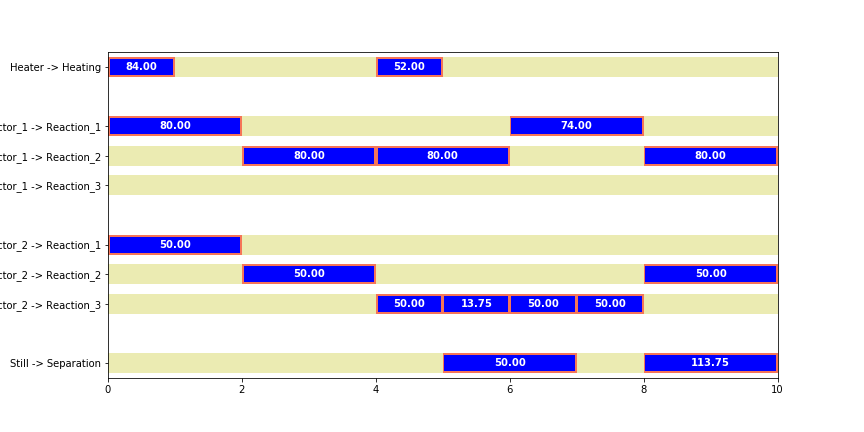
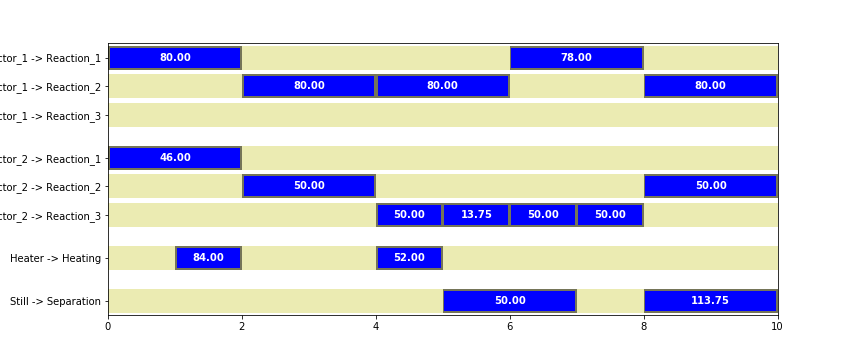
improvements to gantt plotting

diff --git a/STN/kondili.py b/STN/kondili.py
@@ -1,3 +1,11 @@
+#!/usr/bin/env python3
+# -*- coding: utf-8 -*-
+"""
+Created on Mon Oct  9 08:37:40 2017
+
+@author: jeff
+"""
+
 import sys
 sys.path.append('../STN')
 from STN import STN
@@ -17,23 +25,23 @@ stn.state('Product_1', price = 10)
 stn.state('Product_2', price = 10)
 
 # state to task arcs
-stn.STarc('FeedA',   'Heating')
-stn.STarc('FeedB',   'Reaction_1', rho = 0.5)
-stn.STarc('FeedC',   'Reaction_1', rho = 0.5)
-stn.STarc('FeedC',   'Reaction_3', rho = 0.2)
-stn.STarc('HotA',    'Reaction_2', rho = 0.4)
-stn.STarc('IntAB',   'Reaction_3', rho = 0.8)
-stn.STarc('IntBC',   'Reaction_2', rho = 0.6)
-stn.STarc('ImpureE', 'Separation')
+stn.stArc('FeedA',   'Heating')
+stn.stArc('FeedB',   'Reaction_1', rho = 0.5)
+stn.stArc('FeedC',   'Reaction_1', rho = 0.5)
+stn.stArc('FeedC',   'Reaction_3', rho = 0.2)
+stn.stArc('HotA',    'Reaction_2', rho = 0.4)
+stn.stArc('IntAB',   'Reaction_3', rho = 0.8)
+stn.stArc('IntBC',   'Reaction_2', rho = 0.6)
+stn.stArc('ImpureE', 'Separation')
 
 # task to state arcs
-stn.TSarc('Heating',    'HotA',      rho = 1.0, dur = 1)
-stn.TSarc('Reaction_2', 'IntAB',     rho = 0.6, dur = 2)
-stn.TSarc('Reaction_2', 'Product_1', rho = 0.4, dur = 2)
-stn.TSarc('Reaction_1', 'IntBC',     dur = 2)
-stn.TSarc('Reaction_3', 'ImpureE',   dur = 1)
-stn.TSarc('Separation', 'IntAB',     rho = 0.1, dur = 2)
-stn.TSarc('Separation', 'Product_2', rho = 0.9, dur = 1)
+stn.tsArc('Heating',    'HotA',      rho = 1.0, dur = 1)
+stn.tsArc('Reaction_2', 'IntAB',     rho = 0.6, dur = 2)
+stn.tsArc('Reaction_2', 'Product_1', rho = 0.4, dur = 2)
+stn.tsArc('Reaction_1', 'IntBC',     dur = 2)
+stn.tsArc('Reaction_3', 'ImpureE',   dur = 1)
+stn.tsArc('Separation', 'IntAB',     rho = 0.1, dur = 2)
+stn.tsArc('Separation', 'Product_2', rho = 0.9, dur = 1)
 
 # unit-task data
 stn.unit('Heater',    'Heating',    Bmin = 0, Bmax = 100)
@@ -46,6 +54,6 @@ stn.unit('Reactor_2', 'Reaction_3', Bmin = 0, Bmax =  50)
 stn.unit('Still',     'Separation', Bmin = 0, Bmax = 200)
 
 H = 10
-stn.buildmodel(range(0,H+1))
+stn.build(range(0,H+1))
 stn.solve('glpk')
 stn.gantt()

diff --git a/STN/STN.py b/STN/STN.py
@@ -222,26 +222,45 @@ class STN(object):
         H = self.H
         I = self.I
         p = self.p
-        plt.figure(figsize=(12,6))
 
         gap = H/400
         idx = 1
         lbls = []
         ticks = []
-        for j in sorted(self.units):
-            idx -= 1
+        
+        
+        # create a list of units sorted by time of first assignment
+        jstart = {j:H+1 for j in self.units}
+        for j in self.units:
+            for i in I[j]:
+                for t in self.TIME:
+                    if self.model.W[i,j,t]() > 0:
+                        jstart[j] = min(jstart[j],t)
+        jsorted = [j for (j,t) in sorted(jstart.items(), key=lambda x: x[1])]
+
+        # number of horizontal bars to draw
+        nbars = -1
+        for j in jsorted:
+            for i in sorted(I[j]):
+                nbars += 1
+            nbars += 0.5
+        plt.figure(figsize=(12,(nbars+1)/2))
+        
+        for j in jsorted:
+            idx -= 0.5
             for i in sorted(I[j]):
                 idx -= 1
                 ticks.append(idx)
                 lbls.append("{0:s} -> {1:s}".format(j,i))
-                plt.plot([0,H],[idx,idx],lw=20,alpha=.3,color='y')
+                plt.plot([0,H],[idx,idx],lw=24,alpha=.3,color='y')
                 for t in self.TIME:
                     if model.W[i,j,t]() > 0:
-                        plt.plot([t,t+p[i]], [idx,idx],'r', lw=20, alpha=0.5, solid_capstyle='butt')
-                        plt.plot([t+gap,t+p[i]-gap], [idx,idx],'b', lw=16, solid_capstyle='butt')
+                        plt.plot([t,t+p[i]], [idx,idx],'k', lw=24, alpha=0.5, solid_capstyle='butt')
+                        plt.plot([t+gap,t+p[i]-gap], [idx,idx],'b', lw=20, solid_capstyle='butt')
                         txt = "{0:.2f}".format(model.B[i,j,t]())
                         plt.text(t+p[i]/2, idx, txt, color='white', weight='bold', ha='center', va='center')
         plt.xlim(0,self.H)
+        plt.ylim(-nbars-0.5,0)
         plt.gca().set_yticks(ticks)
         plt.gca().set_yticklabels(lbls);
         
